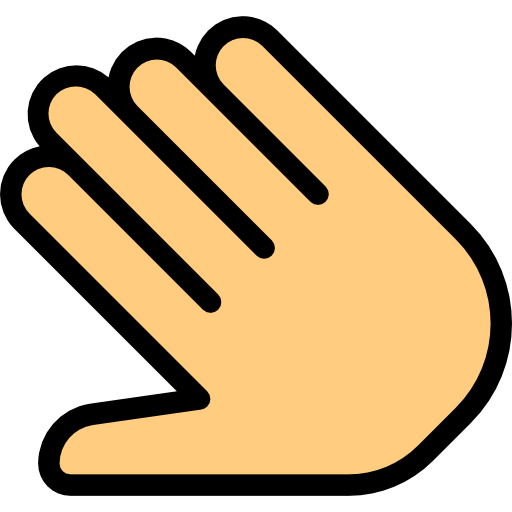
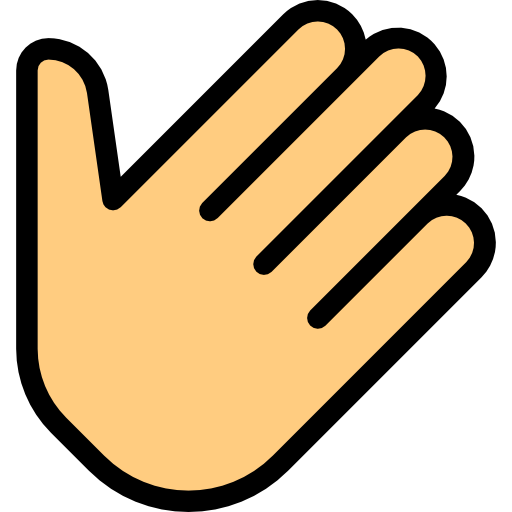
fixed timer

diff --git a/index.html b/index.html
@@ -53,9 +53,24 @@
             </div>
           </div>
           <div id="computerChoice" class="flex justify-center">
-            <img class="size-2/5" alt="rock" src="./images/rock.png" />
-            <img class="size-2/5" alt="paper" src="./images/paper.png" />
-            <img class="size-2/5" alt="scissors" src="./images/scissor.png" />
+            <img
+              class="size-2/5"
+              alt="rock"
+              src="./images/rock.png"
+              style="transform: rotate(180deg)"
+            />
+            <img
+              class="size-2/5"
+              alt="paper"
+              src="./images/paper.png"
+              style="transform: rotate(180deg)"
+            />
+            <img
+              class="size-2/5"
+              alt="scissors"
+              src="./images/scissor.png"
+              style="transform: rotate(180deg)"
+            />
           </div>
 
           <div class="middle-display grow flex flex-col justify-end">

diff --git a/script.js b/script.js
@@ -46,7 +46,7 @@ const gameView = {
     },
 
     updateCountdown(counter) {
-        this.countdownElement.innerText = counter;
+        this.countdownElement.style.setProperty('--value', counter); // Update the CSS custom property
     },
 
     showPlayerChoice(playerChoice) {
@@ -169,11 +169,10 @@ const gameController = {
             gameView.showResultMessage('Game over!');
             this.resetGame();
         } else {
-            setTimeout(() => {
-                if (gameView.confirmNextRound()) {
-                    this.nextRound();
-                }
-            }, 1000);
+
+            if (gameView.confirmNextRound())
+                this.nextRound();
+
         }
     },
 
